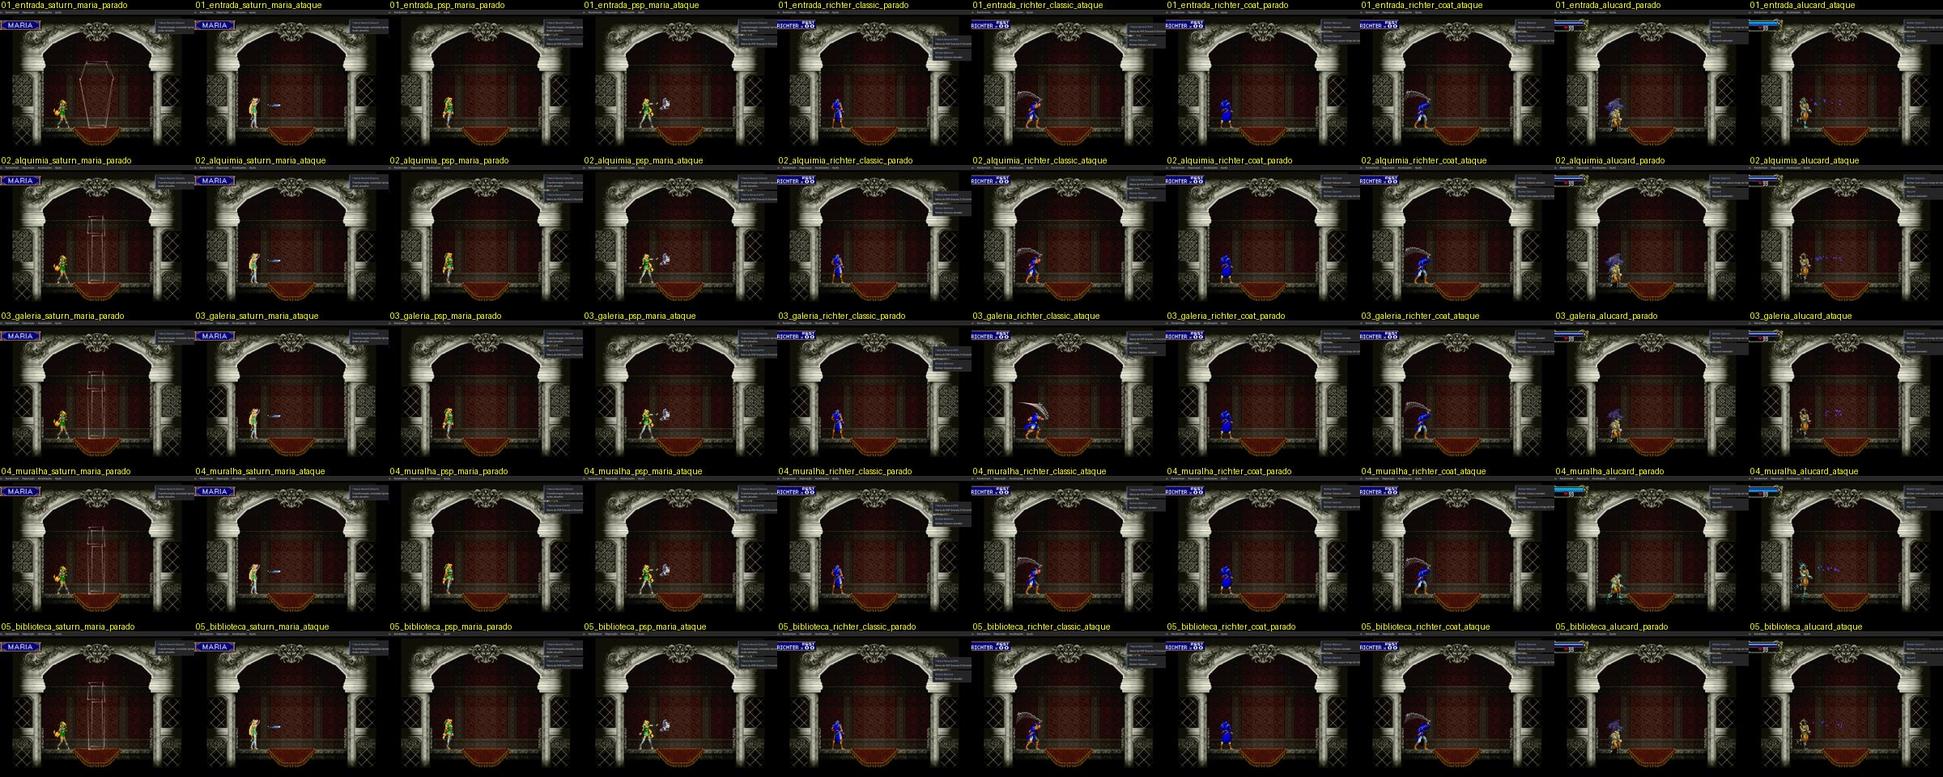
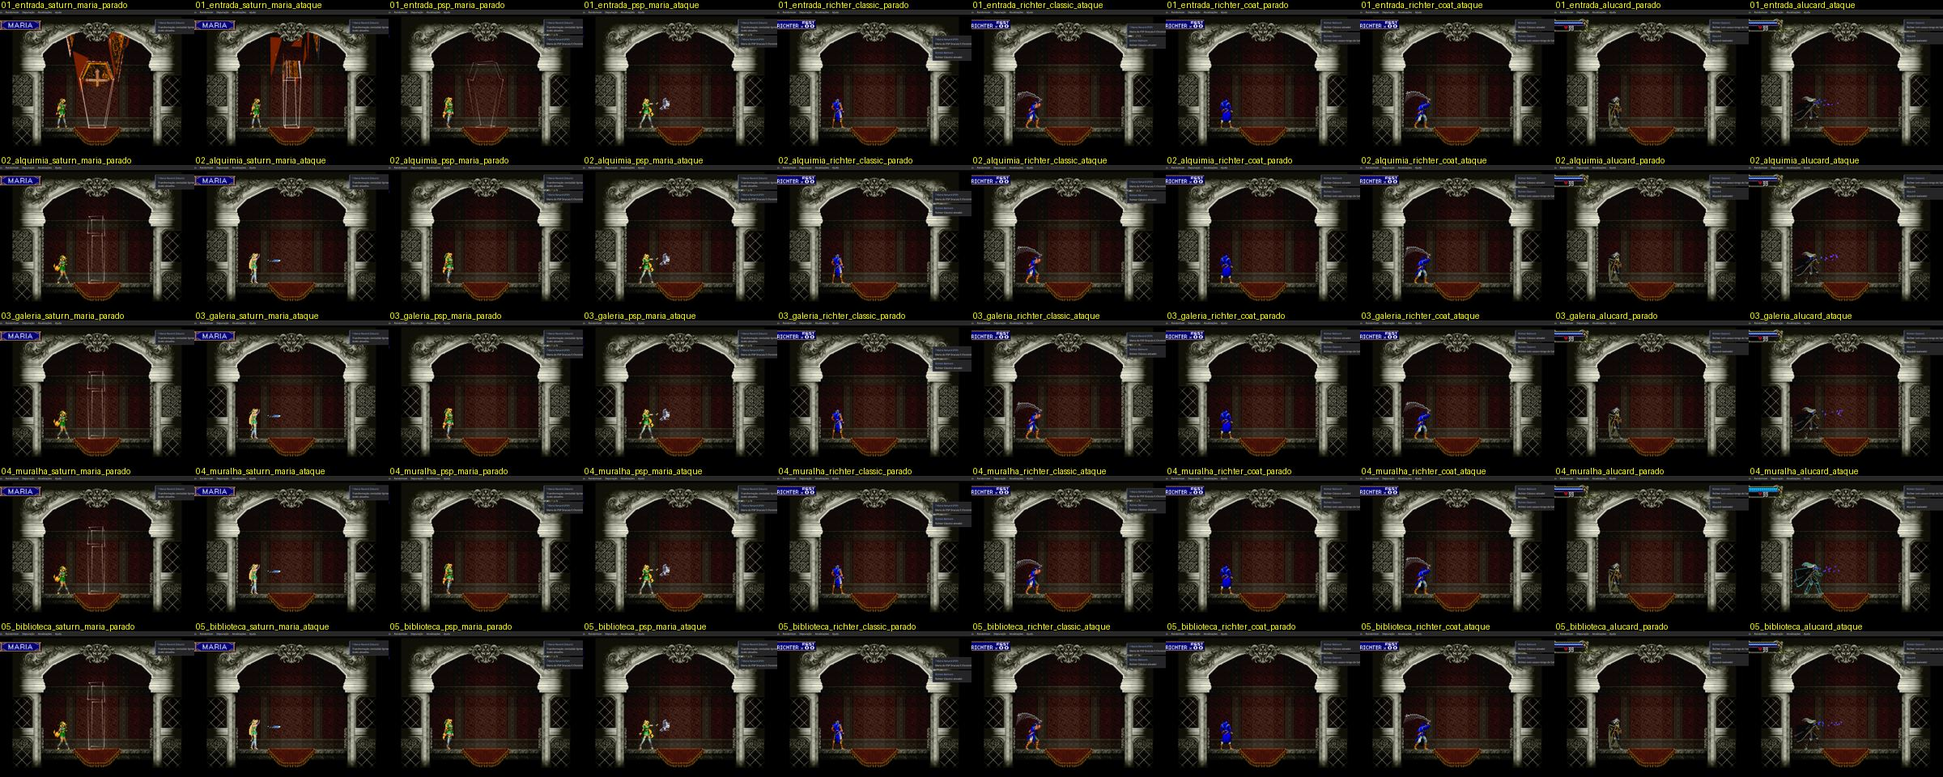
fix(runtime): drop the crash masking and fix what it hid; bring the real Alucard back
- Dispatcher and PSMemory are strict again (unmapped call / address throws)
- generated/dra.cs had hand-made empty try/catch around DrawRichterHud,
  DrawRichterHudSubweapon and EntityAlucard: a swallowed exception skipped the
  function epilogue and left SP and MainGame's saved registers corrupted.
  Regenerated; the real causes are fixed instead:
  - a Stages.Load stage load frees the HUD primitives and the HUD is not
    rebuilt: pre-hook (HudReady) on the four HUD functions skips them during
    the load and rebuilds the HUD right after
  - the load wipes the player entity without running the character init
    again: Stages.StageArrived re-runs it in place, EntityAlucard is skipped
    while the load is in flight
- switching back to Alucard reloads BIN/ARC_F.BIN (his sprite sheet lives in
  the player overlay slot): he was an olive figure, or invisible
- CharacterTest: SOTN_TEST_START=alucard reference run, palette dump
- docs and evidence sheets updated; all passes run in strict mode
  (10 places x 5 characters, 28 destinations, 103-step full test)

diff --git a/patches/ultimate/MariaCharacter.cs b/patches/ultimate/MariaCharacter.cs
@@ -35,9 +35,13 @@ public static class MariaCharacter
             }
         });
 
+        Stages.StageArrived += OnStageArrived;
+
         if (TestMode)
         {
-            UltimateOptions.CharacterMode = CharacterSelection.SaturnMaria;
+            UltimateOptions.CharacterMode = Environment.GetEnvironmentVariable("SOTN_TEST_START") == "alucard"
+                ? CharacterSelection.Alucard
+                : CharacterSelection.SaturnMaria;
             RecompOne.Runtime.Events.Event.AddListener<RecompOne.Runtime.Events.PadReadEvent>(e =>
             {
                 if (e.Port == 0)
@@ -109,6 +113,10 @@ public static class MariaCharacter
     // palettes and sprite sheet) and only then the player overlay, whose init puts its own art on top.
     // The same order is kept here: the sheet first, then the binary, then its init.
     private const uint PlayerOverlayBase = 0x8013C000u;
+    // Alucard has no overlay of his own, but the same slot holds his sprite sheet (BIN/ARC_F.BIN, which
+    // the game loads there when it starts as Alucard). Without it back he is drawn from the bytes of the
+    // last character's binary: an olive figure with a purple cloak, or nothing at all.
+    private const string AlucardSpritesFile = "BIN/ARC_F.BIN";
 
     public static void SwitchToCharacter(CpuContext c, IMemory m, CharacterSelection selection)
     {
@@ -172,6 +180,8 @@ public static class MariaCharacter
                     RestoreAlucardWeapons(m);
                     LoadGameGraphics(m, "BIN/F_GAME.BIN");
                     Player.SubWeapon = 0;
+                    // his sprite data lives where the other characters' binaries were loaded
+                    LoadCharacterBinary(m, AlucardSpritesFile);
                     InitAlucard(c, m);
                     ToastNotifications.ShowText("Alucard", "Alucard reativado!", null, 3f);
                     break;
@@ -301,8 +311,68 @@ public static class MariaCharacter
     /// hand: for Richter / Maria the boss bar (prims 1, 3, 4 and the colour bars) sits past the right
     /// edge of the screen until the Dracula fight slides it in, and prim 2 is the player's own life bar.
     /// </summary>
+    // A stage loaded by Stages.Load (fast travel) wipes the player entity and frees every primitive, and
+    // the engine does not run the character's init again. Alucard's update then follows the freed
+    // primitives of his own effects (func_801093C4) and the overlay characters lose their sprite banks
+    // (they keep moving, invisible). Alucard's update is skipped while the stage loads, and on arrival
+    // the active character's init runs again, in place.
+    public static bool PlayerReady(CpuContext c, IMemory m) => !Stages.StageLoading;
+
+    private static void OnStageArrived(CpuContext c, IMemory m)
+    {
+        uint player = Game.EntitiesAddr;
+        uint posX = m.ReadU32(player), posY = m.ReadU32(player + 4);
+        ushort facing = m.ReadU16(player + 0x14);
+
+        if (m.ReadU32(Game.PlayableCharacterAddr) == (uint)PlayableCharacter.Alucard)
+        {
+            InitAlucard(c, m);
+        }
+        else
+        {
+            uint init = m.ReadU32(PlayerOverlayBase + 4);
+            if (init < PlayerOverlayBase) return;
+            MariaLoader.Invoke(c, m, (cc, mm) => Dispatcher.Call(cc, mm, init));
+            if (IsSaturnRichter) ApplyRichterCostume(m);
+        }
+
+        m.WriteU32(player, posX);
+        m.WriteU32(player + 4, posY);
+        m.WriteU16(player + 0x14, facing);
+        m.WriteU32(player + 8, 0);
+        m.WriteU32(player + 0xC, 0);
+        Player.Step = PlayerStep.Standing;
+        Player.StepSub = 0;
+    }
+
+    // A stage loaded by Stages.Load frees every primitive and the HUD is not built again: its primitive
+    // indices are left pointing at freed, reused primitives, and the HUD functions then follow garbage
+    // pointers. Pre-hook of DrawHud, DrawHudSubweapon and the two Richter ones: nothing is drawn while
+    // such a load is in flight, and the HUD is built again on the first frame after it.
+    private const uint EngineStepAddr = 0x8003C9A4u;
+    private static bool _hudStale, _hudRebuilding;
+    private static int _hudLoadSeen;
+
+    public static bool HudReady(CpuContext c, IMemory m)
+    {
+        if (_hudRebuilding) return true;
+        if (Stages.StageLoadCount != _hudLoadSeen) _hudStale = true;
+        if (Stages.StageLoading) return false;
+        if (!_hudStale) return true;
+        if (Game.IsLoading || !Game.InGame || m.ReadU32(EngineStepAddr) == 3) return false;
+
+        // the old indices belong to someone else by now: forget them instead of freeing them
+        m.WriteU32(PlayerHudAddr + 4, 0);
+        m.WriteU32(PlayerHudAddr + 8, 0);
+        RedrawHud(c, m);
+        return false;
+    }
+
     public static void RedrawHud(CpuContext c, IMemory m)
     {
+        _hudStale = false;
+        _hudLoadSeen = Stages.StageLoadCount;
+        _hudRebuilding = true;
         try
         {
             uint p1 = m.ReadU32(PlayerHudAddr + 4);
@@ -334,6 +404,10 @@ public static class MariaCharacter
         catch (Exception ex)
         {
             Console.WriteLine($"[CharacterSwitcher] Erro ao redesenhar HUD: {ex.Message}");
+        }
+        finally
+        {
+            _hudRebuilding = false;
         }
     }
 

diff --git a/wrapers/Stage.cs b/wrapers/Stage.cs
@@ -290,7 +290,7 @@ public static class Stages
         if (M.ReadU32(EngineStepAddr) != EngineStepRoomTransition || M.ReadU32(TransitionStepAddr) > TransitionStepLoadRoom)
         {
             _placing = false;
-            RestorePlayerLook();
+            FinishStageLoad();
             return;
         }
         if (M.ReadU32(TransitionStepAddr) != TransitionStepLoadRoom) return;
@@ -303,52 +303,31 @@ public static class Stages
         M.WriteU32(RoomEntryYAddr, (uint)(_placeOffsetY - M.ReadU16(TilemapScrollYAddr)));
     }
 
-    // A stage loaded this way leaves the player entity without its sprite set, palette and draw
-    // fields (seen with the overlay characters: the player keeps moving, invisible). They are kept
-    // from before the load and put back when the engine left them empty.
-    const uint PlayerEntityAddr = 0x800733D8u;
-    const uint EntityPaletteOffset = 0x16u, EntityDrawOffset = 0x18u, EntityAnimSetOffset = 0x54u;
-    static bool _lookSaved;
-    static ushort _lookPalette, _lookAnimSet;
-    static readonly uint[] _lookDraw = new uint[3];
+    /// <summary>True from <see cref="Load"/> until the player has been set up again in the new stage.
+    /// The engine wipes the player entity and frees its primitives on the way, and does not run the
+    /// character's init again: whoever owns the character does it in <see cref="StageArrived"/>.</summary>
+    public static bool StageLoading => _pending || _crossStage;
 
-    // the player overlay registers its sprite banks in slots 16.. of the stage's own table, which a
-    // new stage replaces
-    const uint SpriteBanksPtrAddr = OverlayHeaderAddr + 0x14u;
-    const int PlayerBankFirst = 16, PlayerBankCount = 8;
-    const uint PlayerOverlayStart = 0x8013C000u, PlayerOverlayEnd = 0x80180000u;
-    static readonly uint[] _lookBanks = new uint[PlayerBankCount];
+    /// <summary>Raised on the game thread when the room transition of a stage load has finished.</summary>
+    public static event Action<RecompOne.Runtime.Context.CpuContext, IMemory>? StageArrived;
 
-    static void SavePlayerLook()
+    /// <summary>How many stage loads <see cref="Load"/> has started; lets a patch tell that what it
+    /// built before (the HUD's primitives) is gone, even if it was not called while the load ran.</summary>
+    public static int StageLoadCount { get; private set; }
+
+    static bool _crossStage;
+
+    static void FinishStageLoad()
     {
-        uint banks = M.ReadU32(SpriteBanksPtrAddr);
-        for (int i = 0; i < PlayerBankCount; i++)
-            _lookBanks[i] = banks == 0 ? 0 : M.ReadU32(banks + (uint)((PlayerBankFirst + i) * 4));
-
-        _lookAnimSet = M.ReadU16(PlayerEntityAddr + EntityAnimSetOffset);
-        _lookSaved = _lookAnimSet != 0;
-        if (!_lookSaved) return;
-        _lookPalette = M.ReadU16(PlayerEntityAddr + EntityPaletteOffset);
-        for (uint i = 0; i < 3; i++) _lookDraw[i] = M.ReadU32(PlayerEntityAddr + EntityDrawOffset + i * 4);
-    }
-
-    static void RestorePlayerLook()
-    {
-        if (!_lookSaved) return;
-        _lookSaved = false;
-
-        uint banks = M.ReadU32(SpriteBanksPtrAddr);
-        for (int i = 0; banks != 0 && i < PlayerBankCount; i++)
+        if (!_crossStage) return;
+        var arrived = StageArrived;
+        var c = RecompOne.Runtime.Runtime.Cpu;
+        if (arrived != null && c != null)
         {
-            uint slot = banks + (uint)((PlayerBankFirst + i) * 4);
-            uint was = _lookBanks[i];
-            if (was >= PlayerOverlayStart && was < PlayerOverlayEnd && M.ReadU32(slot) != was)
-                M.WriteU32(slot, was);
+            try { arrived(c, M); }
+            catch (Exception e) { Console.WriteLine($"[Stages] StageArrived failed: {e}"); }
         }
-        if (M.ReadU16(PlayerEntityAddr + EntityAnimSetOffset) != 0) return;
-        M.WriteU16(PlayerEntityAddr + EntityAnimSetOffset, _lookAnimSet);
-        M.WriteU16(PlayerEntityAddr + EntityPaletteOffset, _lookPalette);
-        for (uint i = 0; i < 3; i++) M.WriteU32(PlayerEntityAddr + EntityDrawOffset + i * 4, _lookDraw[i]);
+        _crossStage = false;
     }
 
     static void EnsureTicking()
@@ -384,9 +363,10 @@ public static class Stages
         }
 
         EnsureTicking();
-        SavePlayerLook();
 
         _pending = true;
+        _crossStage = true;
+        StageLoadCount++;
         _pendingStage = stage;
         _pendingX = roomX;
         _pendingY = roomY;

diff --git a/patches/ultimate/CharacterTest.cs b/patches/ultimate/CharacterTest.cs
@@ -151,6 +151,26 @@ public static class CharacterTest
             return;
         }
 
+        // SOTN_TEST_START=alucard: the game starts as the untouched Alucard; a capture and his palettes
+        // (RAM copy and VRAM row) before any switch, then away and back, to compare
+        if (Environment.GetEnvironmentVariable("SOTN_TEST_START") == "alucard")
+        {
+            Wait(60);
+            Do((_, m) => { _who = "alucard_original"; DumpPalettes(m, "original"); DumpPlayer(m, "original"); });
+            Shot("parado");
+            Do((c, m) => { _who = "maria_saturn"; MariaCharacter.SwitchToCharacter(c, m, CharacterSelection.SaturnMaria); });
+            Wait(40); Shot("parado");
+            Do((c, m) => { _who = "alucard_volta"; MariaCharacter.SwitchToCharacter(c, m, CharacterSelection.Alucard); });
+            Wait(40);
+            Do((_, m) => { DumpPalettes(m, "volta"); DumpPlayer(m, "volta"); });
+            Shot("parado");
+            Press(Button.Square); Wait(10); Shot("ataque"); Release(Button.Square); Wait(30);
+            Do((_, _) => Console.WriteLine("[MariaTest] SEQUÊNCIA COMPLETA"));
+            Wait(30);
+            Do((_, _) => Environment.Exit(0));
+            return;
+        }
+
         if (Environment.GetEnvironmentVariable("SOTN_TEST_QUICK") == "1")
         {
             // only the switches: where each character ends up and whether it stands
@@ -285,10 +305,37 @@ public static class CharacterTest
         return list;
     }
 
+    // every player palette row: the game's copy in RAM and what is in VRAM, as hashes, plus row 0x100 in full
+    private static void DumpPalettes(IMemory m, string tag)
+    {
+        var gpu = RecompOne.Runtime.Runtime.Gpu;
+        var sb = new System.Text.StringBuilder($"[PALETA] {tag}: entPal={m.ReadU16(0x800733D8u + 0x16):X4} animSet={m.ReadU16(0x800733D8u + 0x54):X4}");
+        for (int id = 0x100; id < 0x120; id++)
+        {
+            uint ram = Palette.ClutRamAddr + (uint)(id * 32), hr = 0, hv = 0;
+            ushort clut = Palette.ClutOf(id);
+            int x = (clut & 0x3F) << 4, y = clut >> 6;
+            for (int k = 0; k < 16; k++)
+            {
+                hr = hr * 31 + m.ReadU16(ram + (uint)(k * 2));
+                if (gpu != null) hv = hv * 31 + gpu.Shadow[x + k, y];
+            }
+            sb.Append($" {id:X3}:{hr:X8}/{hv:X8}");
+        }
+        Console.WriteLine(sb.ToString());
+        if (Environment.GetEnvironmentVariable("SOTN_TEST_RAWPAL") == "1")
+            for (int id = 0x100; id < 0x120; id++)
+            {
+                var row = new System.Text.StringBuilder($"[PALROW] {tag} {id:X3}");
+                for (int k = 0; k < 16; k++) row.Append($" {m.ReadU16(Palette.ClutRamAddr + (uint)(id * 32 + k * 2)):X4}");
+                Console.WriteLine(row.ToString());
+            }
+    }
+
     private static void DumpPlayer(IMemory m, string tag)
     {
         var sb = new System.Text.StringBuilder($"[PLAYER] {tag}:");
-        for (uint o = 0; o < 0x70; o += 4) sb.Append($" {o:X2}={m.ReadU32(0x800733D8u + o):X8}");
+        for (uint o = 0; o < 0xBC; o += 4) sb.Append($" {o:X2}={m.ReadU32(0x800733D8u + o):X8}");
         Console.WriteLine(sb.ToString());
     }
 

diff --git a/RecompOne/RecompOne.Runtime/Memory/PSMemory.cs b/RecompOne/RecompOne.Runtime/Memory/PSMemory.cs
@@ -13,7 +13,6 @@ public sealed class PSMemory : IMemory
     private readonly byte[] _scratchpad = new byte[MemoryMap.ScratchpadWindow];
     private readonly byte[] _hwregs = new byte[MemoryMap.HwRegsSize];
     private readonly byte[] _bios = new byte[MemoryMap.BiosSize];
-    private readonly byte[] _dummy = new byte[64];
 
     private readonly Gpu _gpu = new();
     private readonly Spu _spu = new();
@@ -116,38 +115,23 @@ public sealed class PSMemory : IMemory
 
         // PS1 bus RAM mirror window (0x00000000 - 0x1EFFFFFF)
         if (phys < 0x1F000000u)
-        {
-            var off = (int)(phys & _ramMask);
-            if (off + size > _ram.Length)
-                return _dummy.AsSpan(0, Math.Min(size, _dummy.Length));
-            return _ram.AsSpan(off, size);
-        }
+            return _ram.AsSpan((int)(phys & _ramMask), size);
 
         if (phys >= MemoryMap.ScratchpadBase && phys < MemoryMap.ScratchpadBase + MemoryMap.ScratchpadWindow)
         {
             var off = (int)(phys - MemoryMap.ScratchpadBase);
             if (off + size > MemoryMap.ScratchpadWindow)
-                return _dummy.AsSpan(0, Math.Min(size, _dummy.Length));
+                throw new InvalidOperationException($"access crossing the end of the scratchpad: 0x{address:X8}");
             return _scratchpad.AsSpan(off, size);
         }
 
         if (phys >= MemoryMap.HwRegsBase && phys < MemoryMap.HwRegsBase + MemoryMap.HwRegsSize)
-        {
-            var off = (int)(phys - MemoryMap.HwRegsBase);
-            if (off + size > MemoryMap.HwRegsSize)
-                return _dummy.AsSpan(0, Math.Min(size, _dummy.Length));
-            return _hwregs.AsSpan(off, size);
-        }
+            return _hwregs.AsSpan((int)(phys - MemoryMap.HwRegsBase), size);
 
         if (phys >= MemoryMap.BiosBase && phys < MemoryMap.BiosBase + MemoryMap.BiosSize)
-        {
-            var off = (int)(phys - MemoryMap.BiosBase);
-            if (off + size > MemoryMap.BiosSize)
-                return _dummy.AsSpan(0, Math.Min(size, _dummy.Length));
-            return _bios.AsSpan(off, size);
-        }
+            return _bios.AsSpan((int)(phys - MemoryMap.BiosBase), size);
 
-        return _dummy.AsSpan(0, Math.Min(size, _dummy.Length));
+        throw new InvalidOperationException($"unmapped address: 0x{address:X8}");
     }
 
     private readonly Sio0 _sio = new();

diff --git a/RecompOne/RecompOne.Runtime/Dispatch/Dispatcher.cs b/RecompOne/RecompOne.Runtime/Dispatch/Dispatcher.cs
@@ -225,7 +225,7 @@ public static class Dispatcher
         return phys < 0x00800000u ? 0x80000000u | phys : addr;
     }
 
-    public static bool Tolerant = true;
+    public static bool Tolerant;
 
     private static readonly HashSet<uint> _reported = [];
 

diff --git a/SOTN_ULTIMATE.md b/SOTN_ULTIMATE.md
@@ -346,7 +346,7 @@ O script `test_characters.sh` automatiza toda a validação dos personagens atra
 1. **A célula pedida não era a célula de chegada.** No passo 3 da transição de sala (`RunMainEngine`, `0x800F3D60`), o motor não usa a sala passada a `SetNextRoomToLoad` para posicionar o jogador: ele calcula a célula como `(g_PlayerX >> 8) + g_Tilemap.left` (posição **antiga** do jogador na sala **antiga**) e fica só com o byte baixo de `D_801375C0 + scroll antigo` como pixel. O `offsetX/offsetY` antigo era escrito direto em `D_801375C0/C4`, então o destino dependia de onde o jogador estava antes: sala certa por acaso, sala vizinha, ou fora de qualquer sala (tela preta, queda infinita, tiles soltos).
    * Correção em `wrapers/Stage.cs` (`PlaceTick`): no quadro em que a transição chega ao passo 3, a origem da sala antiga (`0x800730B0/B4`) é ajustada para que aquela soma dê a célula pedida, e `D_801375C0/C4` recebe `offset - scroll`. Vale para qualquer sala, não só 1×1.
 2. **Células que não existem.** Várias entradas da tabela antiga apontavam para células fora da tabela de salas do estágio (Cavernas `(34,42)`, Catacumbas `(18,52)`, Mina `(22,46)`, Warp `(32,24)` e quase todo o castelo invertido). O estágio carregava e nenhuma sala era carregada: a tela de tiles soltos. `Stages.Load` agora recusa a célula (`Stages.HasRoom`) e avisa no console.
-3. **Personagem invisível depois de trocar de estágio.** O carregamento por `Stages.Load` deixa a entidade do jogador sem `animSet`, paleta e campos de desenho, e o estágio novo traz a sua própria tabela de bancos de sprite, sem as entradas 16.. que o overlay do personagem (Maria, Richter) registra no `Init`. `Stages` guarda esses valores antes do carregamento e os devolve na chegada (`SavePlayerLook` / `RestorePlayerLook`).
+3. **Personagem invisível depois de trocar de estágio.** O carregamento por `Stages.Load` zera a entidade do jogador e libera todos os primitivos, e o motor não roda de novo o `Init` do personagem. Os personagens de overlay perdiam os bancos de sprite (andavam invisíveis) e o Alucard seguia primitivos já liberados (`func_801093C4`). Agora `Stages` avisa a chegada (`Stages.StageArrived`) e `MariaCharacter.OnStageArrived` roda o `Init` do personagem ativo de novo, no lugar; enquanto o estágio carrega, `EntityAlucard` é pulado (gancho `PlayerReady`).
 4. **Corredores de CD.** As salas 1×1 vizinhas de uma saída de estágio (tileset `0xFF` na tabela de salas) são os corredores de carregamento: o jogo assume o controle e leva o jogador para o outro estágio. Nenhum destino usa essas salas. A Sala do Relógio da Marble Gallery `(32,26)` também ficou de fora: a primeira entrada dispara a cena da Maria e trava o teleporte.
 5. **Thread.** O painel chamava código do jogo a partir da thread da interface; agora passa por `GameThread.Post`.
 6. **Trocar de personagem dentro de uma sala de save estragava a sala.** A sala de save (flag `0x20` em `0x8003C708`) e o corredor de CD (`0x40`) desenham seus tiles a partir de gráficos que o motor carrega por cima de parte da área do `F_GAME` ao entrar. A troca recarrega `F_GAME`/`F_GAME2` e a sala virava fileiras de um tijolo só. `MariaCharacter.ReloadRoomGraphics` repete as cargas do próprio motor (`LoadGfxAsync(3)` / `LoadGfxAsync(4)`) depois da troca.
@@ -395,7 +395,8 @@ Castelo invertido (mesmas salas espelhadas, `63 - x`, `63 - y`):
 
 * 10 destinos × 5 personagens (parado e ataque): 100 capturas, todos com `vy=0` na chegada, nenhuma chamada pulada pelo dispatcher. Folhas: [a](docs/teste-teleporte/10_locais_5_personagens_a.jpg), [b](docs/teste-teleporte/10_locais_5_personagens_b.jpg).
 * 28 destinos (dois castelos): todos com `step = Standing` e `vy = 0` no primeiro quadro. Folha: [28 destinos](docs/teste-teleporte/28_destinos.jpg).
-* Ficou em aberto: na Torre do Relógio, o item que cai da vela aparece como um quadrado rosa depois de uma troca de personagem; as cores do Alucard depois da troca (corpo oliva, capa roxa) são as mesmas das capturas anteriores e não foram comparadas com o Alucard original; a Sala do Relógio não serve de destino.
+* Tudo isso em modo estrito (sem tolerância, código gerado limpo), junto com o teste completo de 103 passos.
+* Ficou em aberto: o forro da capa do Alucard volta com outra cor depois de uma troca (vermelho no original); um item caído no chão no momento de uma troca de personagem vira um quadrado de cor única (continua podendo ser pego); a Sala do Relógio não serve de destino.
 
 ### Como testar e como medir um destino novo
 
@@ -406,9 +407,20 @@ Castelo invertido (mesmas salas espelhadas, `63 - x`, `63 - y`):
 
 No log, `chegada` é o primeiro quadro com controle e `apoiado` é depois de parar; num destino bom as duas linhas têm a mesma posição e `vy=0`.
 
-### Alterações de tolerância no runtime (decisão pendente)
+### A "tolerância" foi removida: o que ela escondia
 
-Dois ajustes anteriores continuam no código e **escondem** erros em vez de corrigi-los: `Dispatcher.Tolerant = true` (chamada para endereço sem função vira aviso `[Dispatcher] skipped an unmapped call` e segue) e `PSMemory` devolvendo um buffer vazio para endereços não mapeados (sem aviso nenhum). Nas execuções de teleporte desta seção nenhuma chamada foi pulada; eles não são necessários para o teleporte funcionar.
+Uma sessão anterior tinha deixado três coisas para o teleporte "não crashar": `Dispatcher.Tolerant = true`, um buffer vazio no `PSMemory` para endereços inválidos e, **editado à mão dentro de `generated/dra.cs`** (pasta fora do git), um `try { ... } catch { }` vazio em volta de `DrawRichterHud`, `DrawRichterHudSubweapon` e `EntityAlucard`. As três foram desfeitas (o código gerado foi regenerado). O `catch` vazio era o pior: a exceção saía no meio da função do jogo, o epílogo não rodava, a pilha ficava `0x38` bytes fora do lugar e os registradores salvos de `MainGame` voltavam zerados; o jogo seguia com estado corrompido.
+
+Os erros de verdade, agora corrigidos na origem:
+
+* **HUD depois de um carregamento de estágio.** Os primitivos do HUD são liberados e o HUD não é refeito; `DrawHud`, `DrawHudSubweapon`, `DrawRichterHud` e `DrawRichterHudSubweapon` seguiam ponteiros de primitivos reutilizados. Gancho `pre` nas quatro (`MariaCharacter.HudReady`, em `config/sotn.json`): nada é desenhado enquanto o carregamento está em curso, e no primeiro quadro depois dele o HUD é reconstruído (`RedrawHud`). `Stages.StageLoadCount` diz que houve um carregamento mesmo que o HUD não tenha sido chamado durante ele.
+* **`EntityAlucard` durante o carregamento**: item 3 acima.
+
+Regra para o futuro: nada de editar `generated/` à mão (some no próximo `recompone`), e nada de `catch` vazio em volta de código do jogo.
+
+### Alucard depois de uma troca de personagem
+
+O Alucard não tem overlay próprio, mas o espaço do overlay do jogador (`0x8013C000`) guarda a folha de sprites dele, `BIN/ARC_F.BIN`, que o jogo carrega ali quando começa como Alucard. Depois de carregar Maria ou Richter nesse espaço, a volta para o Alucard desenhava os bytes do binário anterior: uma figura oliva de capa roxa, ou nada. `SwitchToCharacter` agora recarrega `BIN/ARC_F.BIN` antes do `AluInit`. Capturas: [original e volta](docs/teste-teleporte/alucard_original_e_volta.jpg). Referência para comparar: `SOTN_TEST_MARIA=1 SOTN_TEST_START=alucard` começa o jogo como o Alucard intocado, captura, troca para a Maria e volta.
 
 ---
 
